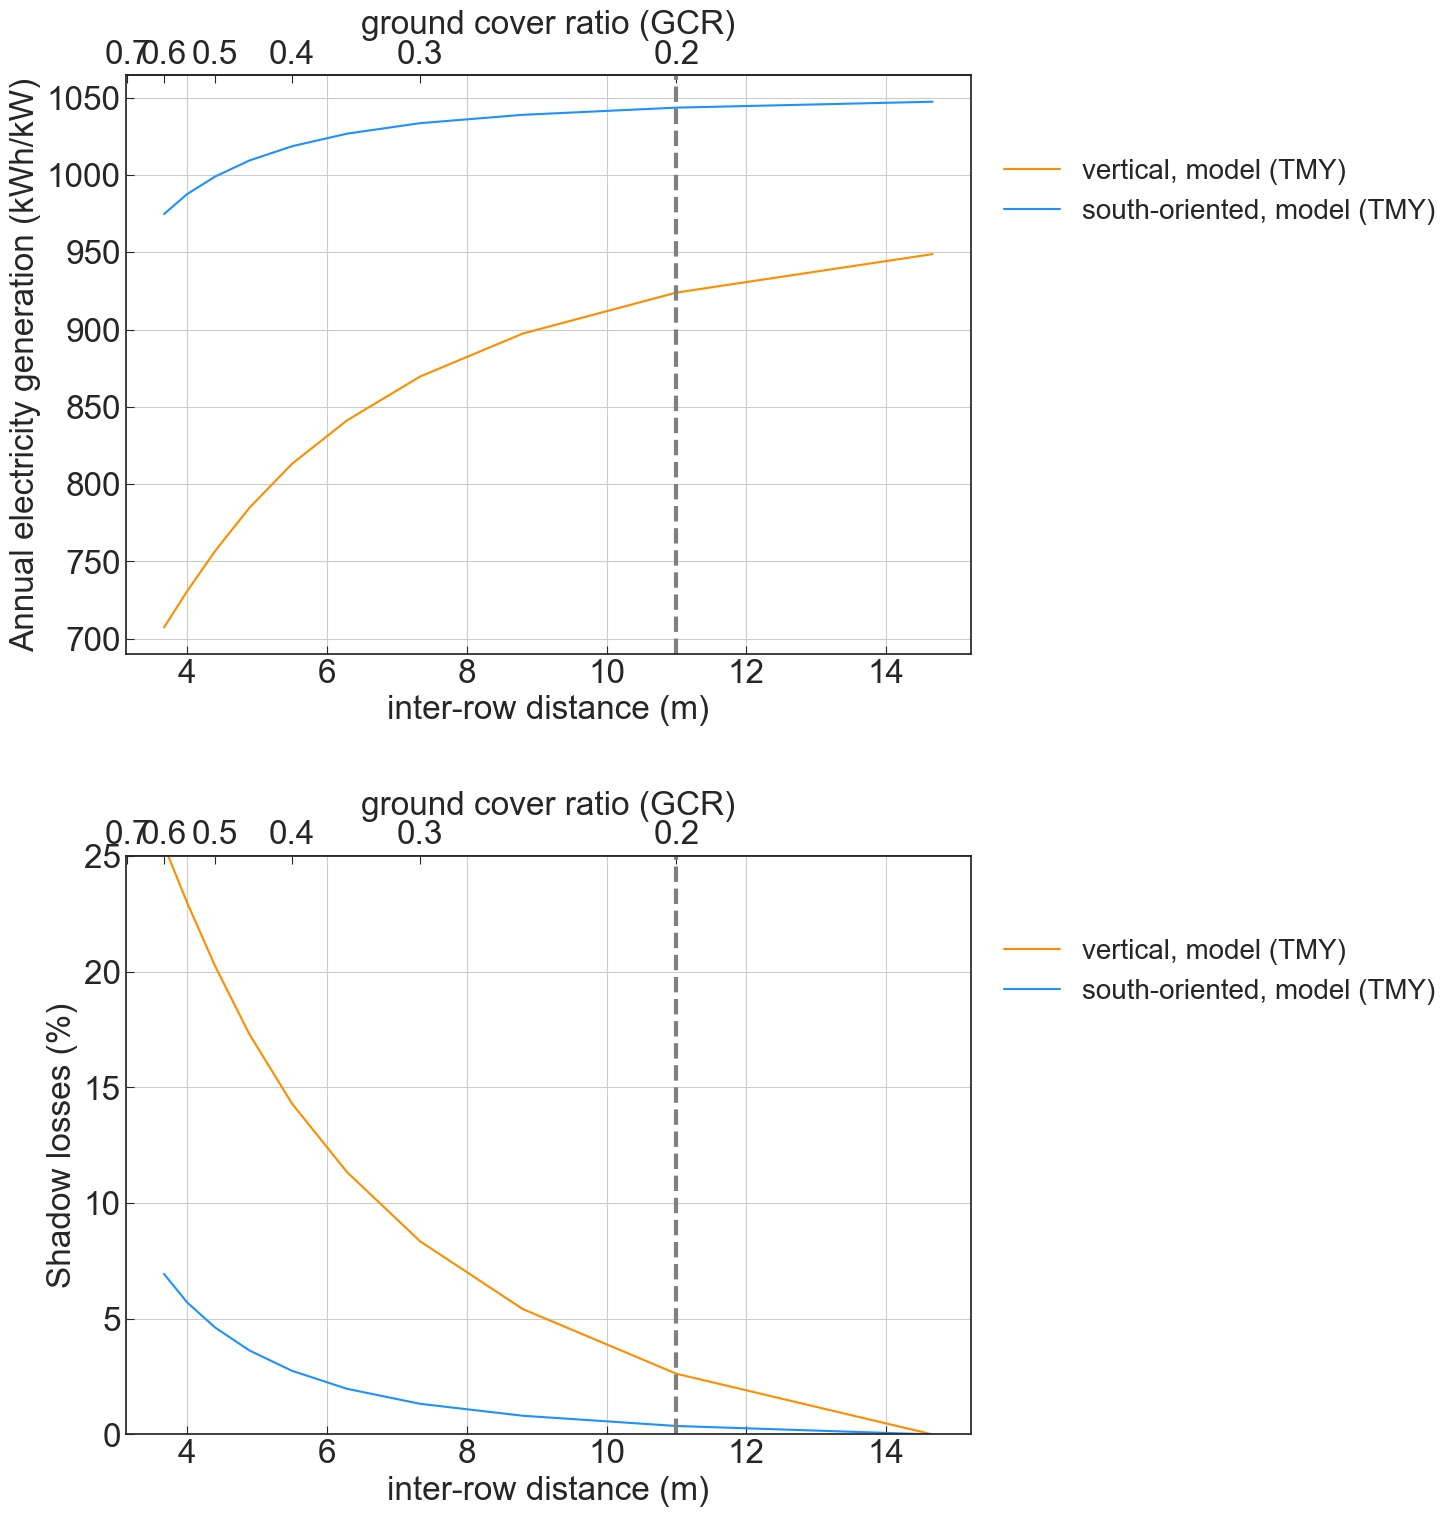
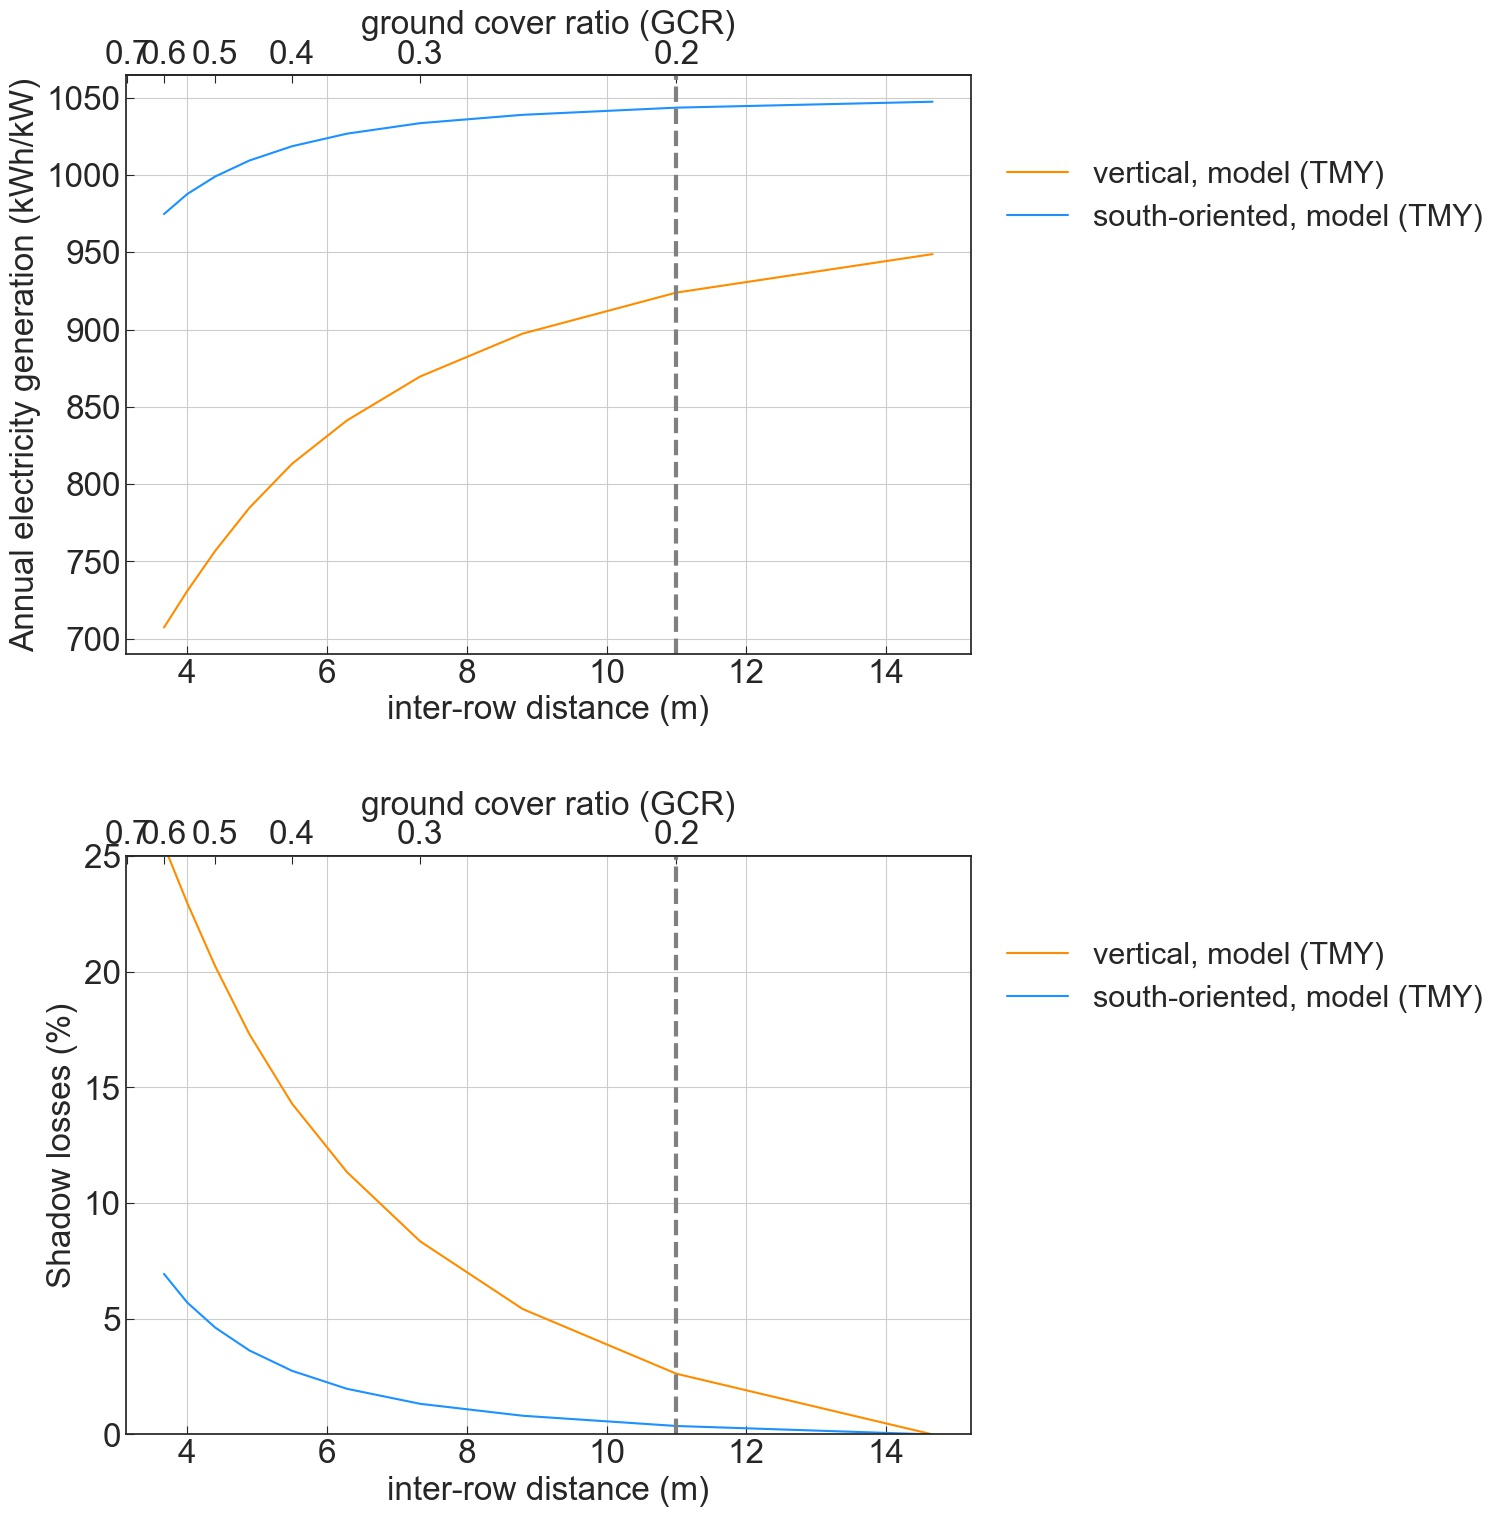
change fontsize

diff --git a/estimate_annual_yield.py b/estimate_annual_yield.py
@@ -227,7 +227,7 @@ ax1.grid()
 ax1.axvline(x=11,color='grey', linewidth=3, linestyle='--')
 ax1.set_ylabel('Annual electricity generation (kWh/kW)')
 ax1.set_xlabel('inter-row distance (m)')
-ax1.legend(fontsize=18)
+ax1.legend(fontsize=22, bbox_to_anchor=(1.01, 0.9))
 
 def gcr2pitch(x):
     return module_width*2/x
@@ -256,7 +256,7 @@ ax1.grid()
 ax1.axvline(x=11,color='grey', linewidth=3, linestyle='--')
 ax1.set_ylabel('Shadow losses (%)')
 ax1.set_xlabel('inter-row distance (m)')
-ax1.legend(fontsize=18)
+ax1.legend(fontsize=22, bbox_to_anchor=(1.01, 0.9))
 ax1.set_ylim([0,25])
 
 ax10 = ax1.secondary_xaxis('top', functions=(pitch2gcr, gcr2pitch))
